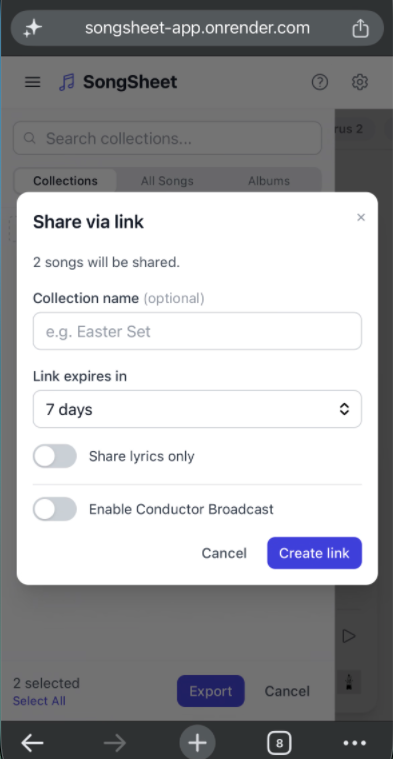
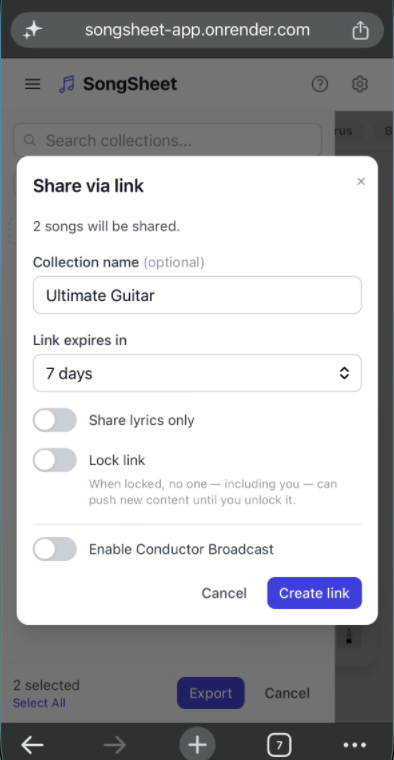
docs: add Lock link / PIN protection section to user guide
Documents the Lock link toggle, PIN setup/unlock flow, and auto
re-lock behavior in the Share via Link modal, with screenshots.
Also removes the blue filename tag pills shown under every
screenshot throughout the guide.

diff --git a/public/Documentation-songbook/user-guide.html b/public/Documentation-songbook/user-guide.html
@@ -435,23 +435,6 @@
       margin: 24px auto;
     }
 
-    /* Screenshot filename label (for recapture reference) */
-    .screenshot-filename {
-      display: block;
-      text-align: center;
-      font-family: 'JetBrains Mono', monospace;
-      font-size: .72rem;
-      color: #fff;
-      background: #4338ca;
-      opacity: .85;
-      padding: 2px 8px;
-      border-radius: 20px;
-      width: fit-content;
-      margin: -14px auto 24px;
-      position: relative;
-      z-index: 1;
-    }
-
     /* Side-by-side screenshot pair */
     .screenshot-pair {
       display: flex;
@@ -888,7 +871,6 @@
         <p>Everything lives in your browser; there is no account to create and no data is sent to any server.</p>
 
         <img src="images/SS-01.png" alt="Full app interface overview — top navigation bar, sidebar with a collection open and a song selected, Import/Export/Search UG buttons at the bottom" class="screenshot-img" />
-        <div class="screenshot-filename">images/SS-01.png</div>
 
         <div class="subsection">
           <h3 class="subsection-title">Interface Overview</h3>
@@ -943,7 +925,6 @@
           <h3 class="subsection-title">Search</h3>
           <p>Type in the search bar at the top of the sidebar to filter songs by <strong>title</strong> or <strong>artist</strong>. The list updates instantly as you type. Clear the search field to return to the full library view.</p>
           <img src="images/SS-02.png" alt="Sidebar search — 'Jesus' typed in the search bar with two matching songs filtered: Jesus Paid It All and Yeshua" class="screenshot-img" />
-          <div class="screenshot-filename">images/SS-02.png</div>
         </div>
 
         <div class="subsection" id="view-modes">
@@ -992,12 +973,10 @@
           <div class="screenshot-pair">
             <div class="screenshot-pair-item">
               <img src="images/SS-03-01.png" alt="Collections list — Daniel Choy, Ultimate Guitar, Campus Family Worship Night 26 June (selected), and Easter collections" />
-              <div class="screenshot-filename">images/SS-03-01.png</div>
               <div class="screenshot-pair-caption">1 — Tap a collection to open it</div>
             </div>
             <div class="screenshot-pair-item">
               <img src="images/SS-03.png" alt="Collection detail view — 'Campus Family Worship Night 26 June 2026' with Add Songs, Search UG, Rename, Duplicate, Check for Updates, and Delete Collection buttons, plus the 10-song list below" />
-              <div class="screenshot-filename">images/SS-03.png</div>
               <div class="screenshot-pair-caption">2 — Collection detail view</div>
             </div>
           </div>
@@ -1024,7 +1003,6 @@
             <li><strong>Drag & Drop</strong> — Drag files from your computer and drop them anywhere on the main content area. The area highlights in blue when a drag is detected.</li>
           </ul>
           <img src="images/SS-04.png" alt="Empty state — 'No songs yet. Drag a file here to get started' with an Import File button" class="screenshot-img" />
-          <div class="screenshot-filename">images/SS-04.png</div>
         </div>
 
         <div class="subsection" id="duplicates">
@@ -1036,7 +1014,6 @@
             <li><strong>Skip</strong> — Ignores the duplicate and does not import it.</li>
           </ul>
           <img src="images/SS-05.png" alt="Duplicate Song dialog — 'A song titled Emmanuel already exists. What would you like to do?' with Replace, Keep Both, and Skip buttons" class="screenshot-img" />
-          <div class="screenshot-filename">images/SS-05.png</div>
         </div>
 
         <div class="subsection" id="ug-search">
@@ -1076,12 +1053,10 @@
           <div class="screenshot-pair">
             <div class="screenshot-pair-item">
               <img src="images/SS-06-1.png" alt="Search Songs modal — 'Silent night' typed in the search field with the Search button" />
-              <div class="screenshot-filename">images/SS-06-1.png</div>
               <div class="screenshot-pair-caption">1 — Enter a song title</div>
             </div>
             <div class="screenshot-pair-item">
               <img src="images/SS-06-2.png" alt="Search results — multiple versions of Silent Night chord charts listed, tagged with UG and DC badges" />
-              <div class="screenshot-filename">images/SS-06-2.png</div>
               <div class="screenshot-pair-caption">2 — Select from results</div>
             </div>
           </div>
@@ -1104,7 +1079,6 @@
         <p>Click any song in the sidebar to open it in the main content area.</p>
 
         <img src="images/SS-07.png" alt="Full song view — 'Thou Art A Shield For Me' showing the song header with key, capo, info and edit controls, chord strip with Am/G/F diagrams, and lyrics with inline chords" class="screenshot-img" />
-        <div class="screenshot-filename">images/SS-07.png</div>
 
         <div class="subsection" id="song-header">
           <h3 class="subsection-title">Song Header & Info Panel</h3>
@@ -1114,7 +1088,6 @@
             <li>Click <strong>Info ▲</strong> to collapse it again.</li>
           </ul>
           <img src="images/SS-08.png" alt="Song header with Info panel expanded — showing Key: C and Capo: 3 beneath the title and controls" class="screenshot-img" />
-          <div class="screenshot-filename">images/SS-08.png</div>
         </div>
 
         <div class="subsection" id="chord-strip">
@@ -1126,7 +1099,6 @@
             <li>The chord strip is hidden in Lyrics Only mode.</li>
           </ul>
           <img src="images/SS-09.png" alt="Chord strip open — Am, G, and F chord diagrams displayed below the song header with the Chords toggle button" class="screenshot-img" />
-          <div class="screenshot-filename">images/SS-09.png</div>
         </div>
 
         <div class="subsection" id="section-jump">
@@ -1150,7 +1122,6 @@
           </ul>
           <p>Font size preference is saved across sessions.</p>
           <img src="images/SS-10.png" alt="Floating display controls — arrow pointing to the bottom-right cluster of ⛶ fit, + and − font size, and ▶ auto-scroll buttons" class="screenshot-img" />
-          <div class="screenshot-filename">images/SS-10.png</div>
         </div>
 
         <div class="subsection" id="metronome">
@@ -1191,7 +1162,6 @@
           <h3 class="subsection-title">Transpose</h3>
           <p>A <strong>key dropdown</strong> in the song header lists all 12 major (or minor) keys. Selecting a different key instantly transposes every chord in the song. The original key stored in the file is never modified — transpose is non-destructive.</p>
           <img src="images/SS-11.png" alt="Transpose key dropdown open — all 12 major keys listed with C ticked as the current key" class="screenshot-img" />
-          <div class="screenshot-filename">images/SS-11.png</div>
         </div>
 
         <div class="subsection">
@@ -1216,12 +1186,10 @@
         <div class="screenshot-pair">
           <div class="screenshot-pair-item">
             <img src="images/SS-12-1.png" alt="Auto-scroll running — floating toolbar showing the fit-to-screen icon, font size + and −, the 1:30 duration pill, and the blue ⏹ stop button" />
-            <div class="screenshot-filename">images/SS-12-1.png</div>
             <div class="screenshot-pair-caption">1 — Auto-scroll running; tap the duration pill to adjust speed</div>
           </div>
           <div class="screenshot-pair-item">
             <img src="images/SS-12.png" alt="Speed adjuster open — + button, 1:30 duration, − button, and a Done button to collapse it" />
-            <div class="screenshot-filename">images/SS-12.png</div>
             <div class="screenshot-pair-caption">2 — Speed adjuster</div>
           </div>
         </div>
@@ -1287,7 +1255,6 @@
         <p style="margin-top:14px">After navigating, a brief <strong>swipe hint</strong> appears at the bottom of the screen showing the direction and the title of the song you've moved to.</p>
 
         <img src="images/SS-13.png" alt="Swipe navigation hint — '← Yeshua' pill toast appearing at the bottom of the screen after swiping to the previous song" class="screenshot-img" />
-        <div class="screenshot-filename">images/SS-13.png</div>
       </section>
 
       <!-- ══════════════════════════════════════════════ -->
@@ -1320,7 +1287,6 @@
         </div>
 
         <img src="images/SS-14.png" alt="Performance Mode — 'Yeshua' by Jesus Image in full-screen view with large text, INTRO and VERSE section headers, sticky title bar with Exit button, and auto-scroll button bottom right" class="screenshot-img" />
-        <div class="screenshot-filename">images/SS-14.png</div>
 
         <div class="subsection">
           <h3 class="subsection-title">Keyboard Navigation in Performance Mode</h3>
@@ -1358,7 +1324,6 @@
         <p>Click the <span class="btn-replica">Edit</span> button in the song header to open the built-in editor. The main content area switches to an edit view with metadata fields at the top and a raw-text content editor below.</p>
 
         <img src="images/SS-15.png" alt="Song editor open — 'Yeshua' with Title, Artist, Key, Capo, Tempo and Time Sig fields, and the raw content textarea showing {c:} section headers and [Chord] inline syntax" class="screenshot-img" />
-        <div class="screenshot-filename">images/SS-15.png</div>
 
         <div class="subsection" id="new-song">
           <h3 class="subsection-title">Creating a Blank Song</h3>
@@ -1487,7 +1452,6 @@
           </div>
 
           <img src="images/SS-28.png" alt="Annotations visible in the song view — a song-level note below the title, a section-level note after the CHORUS header, and a line-level note after a lyric line, all rendered in grey italic" class="screenshot-img" />
-          <div class="screenshot-filename">images/SS-28.png</div>
 
           <p style="margin-top:18px"><strong>Showing and hiding annotations:</strong></p>
           <ul class="feature-list">
@@ -1497,7 +1461,6 @@
           </ul>
 
           <img src="images/SS-29.png" alt="The annotation toggle button (💬) in the song header bar, highlighted in indigo to show annotations are visible" class="screenshot-img" />
-          <div class="screenshot-filename">images/SS-29.png</div>
 
           <div class="callout tip">
             <span class="callout-icon">💡</span>
@@ -1516,7 +1479,6 @@
           </ul>
 
           <img src="images/SS-30.png" alt="The Annotations row in Settings → Display, showing font, size, and colour customisation controls" class="screenshot-img" />
-          <div class="screenshot-filename">images/SS-30.png</div>
 
           <p style="margin-top:18px"><strong>Export behaviour:</strong></p>
           <ul class="feature-list">
@@ -1589,7 +1551,6 @@
         </div>
 
         <img src="images/SS-16.png" alt="Export mode — 3 songs selected (Emmanuel, For You Alone, Give Me This Mountain) highlighted in indigo, with '3 selected · Export · Cancel' bar at the bottom" class="screenshot-img" />
-        <div class="screenshot-filename">images/SS-16.png</div>
 
         <div class="subsection" id="export-sbp">
           <h3 class="subsection-title">Download .sbp</h3>
@@ -1607,13 +1568,40 @@
           </ul>
 
           <img src="images/SS-17.png" alt="Share via Link modal — 3 songs will be shared, collection name field, link expires in 7 days dropdown, Share lyrics only toggle, and Create link button" class="screenshot-img" />
-          <div class="screenshot-filename">images/SS-17.png</div>
 
           <p>Once the link is created, you have two ways to share it with your congregation:</p>
           <ul class="feature-list">
             <li><strong>Copy the URL</strong> — Tap <strong>Copy</strong> next to the link and paste it into a group chat, email, or bulletin. Anyone who opens it is taken straight to the import screen.</li>
             <li><strong>Share the QR code</strong> — A QR code for the link is generated automatically below the URL. Tap <strong>Save QR Code</strong> to download it as a PNG — the image includes the collection name and expiry date. Print it in your service bulletin, project it on screen, or send it digitally so your congregation can scan it with their phone camera to open the link instantly.</li>
           </ul>
+
+          <p style="margin-top:16px">A share link stays "live" for its collection: reopening <strong>Share via Link</strong> for a collection that already has one switches the modal to <strong>update mode</strong>, where you can <strong>Push Update</strong> to overwrite the shared content with your current songs (recipients get a <a href="#collections" style="color:var(--accent)">Check for Updates</a> prompt), or tap <strong>New Link</strong> to generate a separate, independent URL instead.</p>
+        </div>
+
+        <div class="subsection" id="export-share-lock">
+          <h3 class="subsection-title">Lock Link &amp; PIN Protection</h3>
+          <p>Because a share link can be updated at any time, the <strong>Lock link</strong> toggle lets you protect it from further changes — useful once a set list is finalised and you don't want it edited again, accidentally or otherwise.</p>
+          <ul class="feature-list">
+            <li><strong>Lock link</strong> — A toggle beneath "Share lyrics only", available both when creating a link and in update mode. Turning it on requires setting a <strong>4-digit PIN</strong>. Once locked, <strong>no one — including you</strong> — can push updates until the link is unlocked; the <strong>Push Update</strong> button is disabled and shows "this link is locked".</li>
+            <li><strong>Setting the PIN</strong> — Switching the toggle on reveals a 4-digit PIN field. Enter a PIN and tap <strong>Lock</strong> to confirm.</li>
+          </ul>
+
+          <img src="images/SS-17b.png" alt="Share via Link modal — Lock link toggle switched on with a 4-digit PIN field, Lock button, and Cancel button" class="screenshot-img" />
+
+          <ul class="feature-list">
+            <li><strong>Unlocking</strong> — Switch the toggle off, enter the same PIN, and tap <strong>Unlock</strong>. An incorrect PIN shows <strong>"Incorrect PIN"</strong>; after 3 failed attempts a hint appears suggesting <strong>New Link</strong> if you've forgotten it.</li>
+            <li><strong>Auto re-lock</strong> — A PIN-protected link automatically re-locks after a successful <strong>Push Update</strong>, and again if you close the Share modal while it's still unlocked — so it never accidentally sits open.</li>
+          </ul>
+
+          <img src="images/SS-17c.png" alt="Share via Link modal in update mode — Lock link toggle on, Incorrect PIN error shown, with a hint to use New Link if the PIN is forgotten, and Push Update disabled" class="screenshot-img" />
+
+          <div class="callout warn">
+            <span class="callout-icon">⚠</span>
+            <div class="callout-body">
+              <strong>Forgot your PIN?</strong>
+              There's no recovery — a locked link can't be unlocked or updated without the correct PIN. Tap <strong>New Link</strong> to share a fresh URL instead; the old (locked) link keeps working for anyone who already has it, it just can't receive further updates. The same applies to links that were locked before PIN protection existed — they have no PIN on file and can only be replaced with a New Link.
+            </div>
+          </div>
         </div>
 
         <div class="subsection" id="export-pdf">
@@ -1702,7 +1690,6 @@
         </div>
 
         <img src="images/SS-18.png" alt="Import confirmation modal — 'Shared Songbook' listing Emmanuel, For You Alone, and Give Me This Mountain, with a lyrics-only notice and 'Will be added to collection: Worship Night', Cancel and Import All buttons" class="screenshot-img" />
-        <div class="screenshot-filename">images/SS-18.png</div>
 
         <div class="callout warn">
           <span class="callout-icon">⚠</span>
@@ -1722,14 +1709,12 @@
         <p>Open Settings by clicking the <strong>⚙</strong> button in the top-right corner of the app. Press <span class="key">Esc</span> to close. Settings has two tabs: <strong>General</strong> and <strong>Display</strong>.</p>
 
         <img src="images/SS-19.png" alt="Settings panel — General tab showing Light theme selected, Lyrics only toggle off, Firecrawl API key field with masked key, Library showing 32 songs with storage bar, and Clear All Data button" class="screenshot-img" />
-        <div class="screenshot-filename">images/SS-19.png</div>
 
         <div class="subsection" id="settings-display">
           <h3 class="subsection-title">Display Tab</h3>
           <p>Switch to the <strong>Display</strong> tab to customise how song content is rendered. Each display element — <strong>Song Title</strong>, <strong>Artist</strong>, <strong>Lyrics</strong>, <strong>Chords</strong>, <strong>Sections</strong>, and <strong>Annotations</strong> — has its own collapsible row where you can adjust font, size, and colour independently.</p>
 
           <img src="images/SS-31.png" alt="Settings Display tab — six collapsible rows for Song Title, Artist, Lyrics, Chords, Sections, and Annotations, each showing font, size, and colour controls" class="screenshot-img" />
-          <div class="screenshot-filename">images/SS-31.png</div>
 
           <ul class="feature-list">
             <li><strong>Font</strong> — Choose from System Default, Georgia, Times New Roman, Helvetica Neue, Arial, Courier New, Menlo, or Monaco. Each element can use a different font.</li>
@@ -1814,14 +1799,12 @@
         <p>Common uses: finalising a set list during rehearsal with your band, letting a team member transpose a song for their instrument, or having a vocalist follow the same chord chart as the leader during a service.</p>
 
         <img src="images/SS-20.png" alt="Session view — leader perspective — set list panel on the left, song viewer with chords and lyrics on the right, green Live badge in the header" class="screenshot-img" />
-        <div class="screenshot-filename">images/SS-20.png</div>
 
         <div class="subsection" id="session-starting">
           <h3 class="subsection-title">Starting a Session (Leader)</h3>
           <p>Click the <span class="btn-replica">🎙 Live Session</span> button at the bottom of the sidebar to open the Live Session modal.</p>
 
           <img src="images/SS-21.png" alt="Live Session modal — session name field pre-filled with today's date, Create and Enter button, and Recent Sessions list above" class="screenshot-img" />
-          <div class="screenshot-filename">images/SS-21.png</div>
 
           <div class="steps">
             <div class="step">
@@ -1877,7 +1860,6 @@
           </div>
 
           <img src="images/SS-22.png" alt="Session view — set list on the left with a song highlighted in indigo, chord chart for the selected song on the right with key dropdown and capo controls in the sub-header" class="screenshot-img" />
-          <div class="screenshot-filename">images/SS-22.png</div>
 
           <p>The header bar shows the session name and a pulsing green <strong>Live</strong> badge while connected. If the session is approaching expiry, a coloured countdown badge also appears.</p>
 
@@ -1895,7 +1877,6 @@
           <p>Any participant can edit a song's content directly within the session — useful for on-the-fly lyric corrections or chord adjustments during rehearsal.</p>
 
           <img src="images/SS-23.png" alt="Song editor modal inside a session — Song name, Singer/Artist, Key dropdown, Capo field, and Lyrics and chords textarea, with Save and Cancel buttons at the bottom right" class="screenshot-img" />
-          <div class="screenshot-filename">images/SS-23.png</div>
 
           <div class="steps">
             <div class="step">
@@ -1919,7 +1900,6 @@
           </div>
 
           <img src="images/SS-24.png" alt="Edit lock indicator — a song in the set list showing the lock icon and the warning Someone is editing this song beneath it" class="screenshot-img" />
-          <div class="screenshot-filename">images/SS-24.png</div>
 
           <p>If someone else is already editing a song, its ✏ button is replaced by a <strong>🔒</strong> icon and a warning appears beneath the row. The lock is released automatically when they save or cancel.</p>
 
@@ -1950,7 +1930,6 @@
           </div>
 
           <img src="images/SS-25.png" alt="Join by code — Live Session modal with Join with a different code expanded, showing a monospaced 6-character input field and the Join button" class="screenshot-img" />
-          <div class="screenshot-filename">images/SS-25.png</div>
 
           <p>Once joined, you see the same set list and can view any song, transpose for your own instrument, and edit songs (subject to edit locking). As a member you cannot reorder the set list or end the session.</p>
 
@@ -1959,7 +1938,6 @@
             <p>The Live Session modal tracks sessions you've previously joined or created. Each time you open the modal, it checks which of those sessions are still active and shows them under <strong>Recent Sessions</strong>. Tap any listed session to jump straight back in — as leader or member, depending on your original role.</p>
 
             <img src="images/SS-26.png" alt="Recent Sessions list — two sessions listed with their role, date joined, expiry badge, Enter button, and copy link icon" class="screenshot-img" />
-            <div class="screenshot-filename">images/SS-26.png</div>
 
             <p>Sessions that have already ended are removed from the list automatically. An amber or red <strong>Expires in Nd</strong> badge warns you when a session is approaching its expiry date (amber ≤ 7 days, red ≤ 3 days).</p>
           </div>
@@ -1970,7 +1948,6 @@
           <p>When the session is over, click <strong>End</strong> in the top-right of the session header. If the set list contains songs that haven't been saved to your library yet, a confirmation modal appears with three choices:</p>
 
           <img src="images/SS-27.png" alt="End Live Session confirmation modal — showing the number of songs, collection name pre-filled with the session name, and three buttons: Save as collection and End session, End without saving, and Cancel" class="screenshot-img" />
-          <div class="screenshot-filename">images/SS-27.png</div>
 
           <ul class="feature-list">
             <li><strong>Save as collection &amp; End session</strong> — Adds all songs in the set list to your personal library as a new collection named after the session, then closes the session for everyone.</li>
@@ -2213,7 +2190,6 @@
         </div>
 
         <img src="images/SS-32.png" alt="Recording in progress — red pulsing dot, elapsed timer showing 0:42, Pause and Stop buttons visible in the song header toolbar" class="screenshot-img" />
-        <div class="screenshot-filename">images/SS-32.png</div>
 
         <div class="subsection">
           <h3 class="subsection-title">Pause & Resume</h3>
@@ -2232,7 +2208,6 @@
           </ul>
 
           <img src="images/SS-33.png" alt="Recordings panel — modal listing recordings for a song with play, download, rename, and delete controls, storage indicator at the top" class="screenshot-img" />
-          <div class="screenshot-filename">images/SS-33.png</div>
 
           <p>A storage indicator at the top of the panel shows how much space your recordings are using.</p>
         </div>
